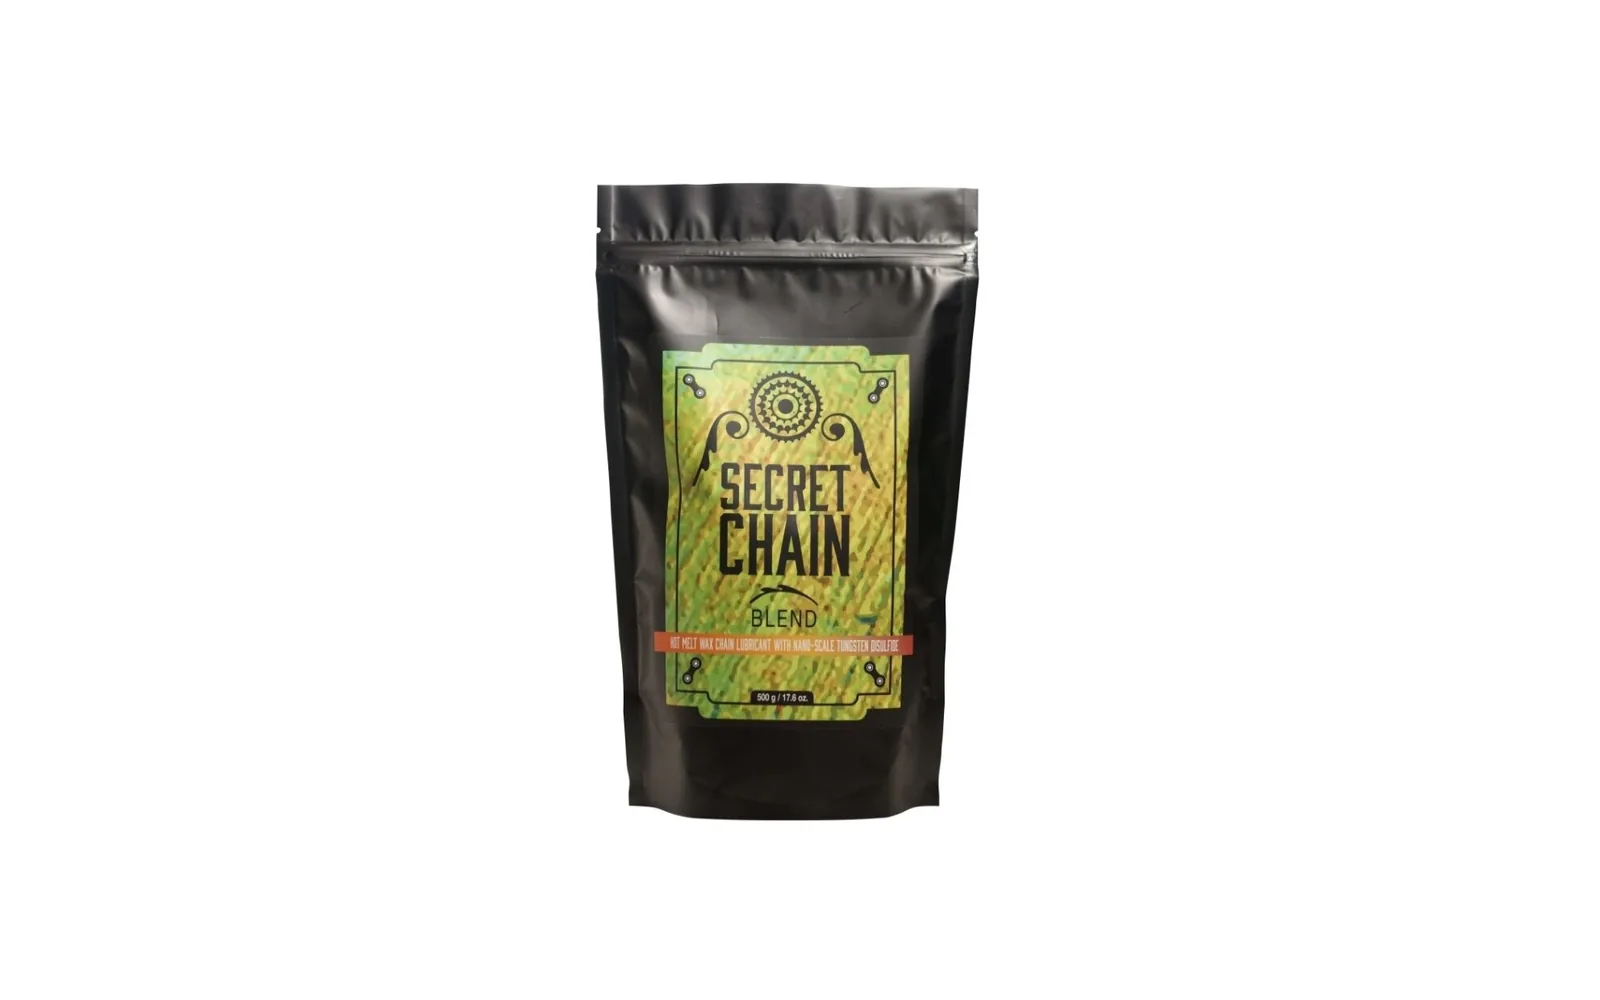
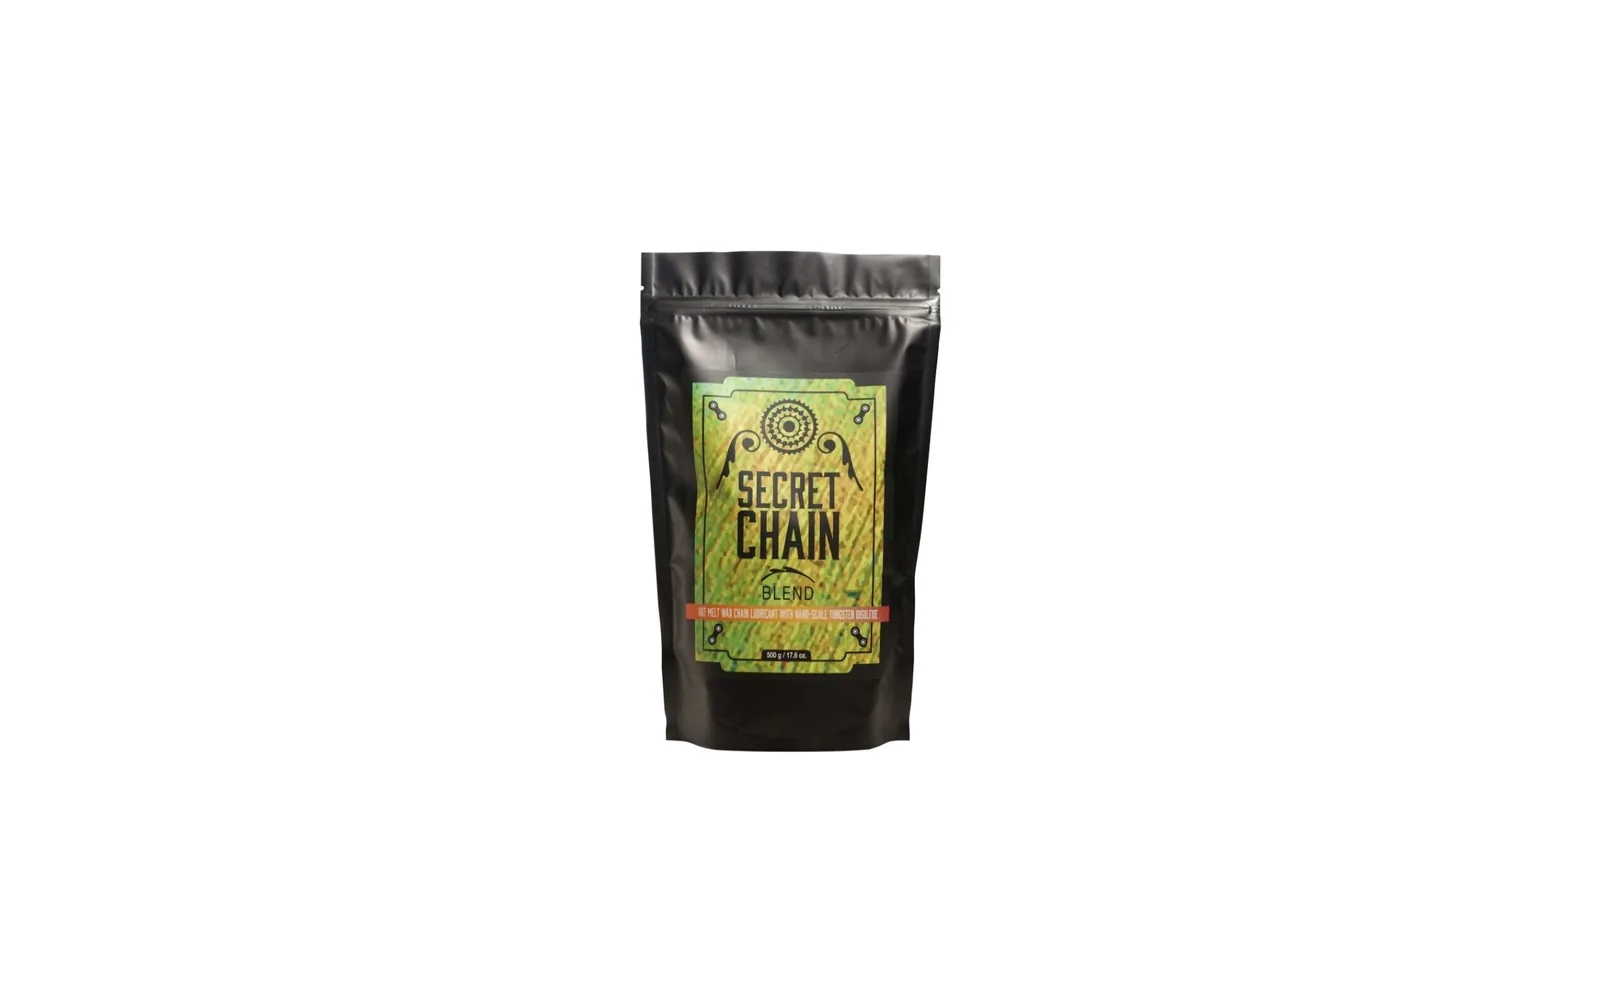
fix(images): bypass Vercel Image Optimization (HTTP 402 quota exceeded)
Production hit HTTP 402 Payment Required na /_next/image endpoint —
Vercel free plan transformation quota překročena. Manifestovalo se
broken thumbnails na magazín hubu (Scott Spark RC, Bikefit, ISAAC,
Voskování), na Lab cards a Pinarello Dogma photos.

Fix:
- next.config.ts: `images.unoptimized: true` — všechny <Image> komponenty
  renderují raw <img> bez Vercel transformations
- Source images už jsou pre-optimalizovány (Python PIL WebP 2400px
  ~50-500 kB), Vercel re-transformation neměla významný benefit
- clanky/page.tsx: magazín card přešel na native <img> + object-cover
  (jistota že prochází i kdyby unoptimized flag nepřevažovala)
- wax-hero.webp: ještě dál oddálený produkt (55 % výšky × 40 % šířky
  canvas) pro víc breathing roomu v Lab card

Až bude Vercel quota vyřešená (upgrade plan / next billing cycle),
vrátit `unoptimized: false`.

Changed region(s): [[0.375, 0.186, 0.625, 0.837]]

diff --git a/src/app/clanky/page.tsx b/src/app/clanky/page.tsx
@@ -1,6 +1,5 @@
 import type { Metadata } from "next";
 import Link from "next/link";
-import Image from "next/image";
 import Navbar from "@/components/Navbar";
 import Footer from "@/components/Footer";
 import JsonLd from "@/components/JsonLd";
@@ -8,7 +7,6 @@ import {
   ARTICLES,
   CATEGORY_LABEL,
   CATEGORY_COLOR,
-  type ArticleCategory,
 } from "@/data/articles";
 
 export const metadata: Metadata = {
@@ -100,13 +98,12 @@ function ArticleCard({ a }: { a: (typeof ARTICLES)[number] }) {
 
   const body = (
     <>
-      <div className="relative aspect-[16/10] bg-[#F0F2FA]">
-        <Image
+      <div className="relative aspect-[16/10] bg-[#F0F2FA] overflow-hidden">
+        {/* eslint-disable-next-line @next/next/no-img-element */}
+        <img
           src={a.image}
           alt={a.title}
-          fill
-          className={`object-cover ${isDraft ? "grayscale" : ""}`}
-          sizes="(max-width: 768px) 100vw, 33vw"
+          className={`absolute inset-0 w-full h-full object-cover ${isDraft ? "grayscale" : ""}`}
           loading="lazy"
         />
         {isDraft && (

diff --git a/next.config.ts b/next.config.ts
@@ -26,6 +26,12 @@ const securityHeaders = [
 
 const nextConfig: NextConfig = {
   images: {
+    // 2026-06-11: Vercel Image Optimization quota překročena (HTTP 402 z
+    // /_next/image endpoint). Source images už jsou WebP 2400px ~500 kB
+    // (Python PIL pipeline před uploadem), tedy Vercel transformations
+    // nepřinášejí významný benefit. Bypass na native <img> globálně.
+    // Až bude na Vercelu vyřešený quota plan, vrátit na false.
+    unoptimized: true,
     qualities: [70, 75, 85, 90],
     // AVIF + WebP — prohlížeč si vybere; AVIF je ~30-50% menší proti JPEG.
     formats: ["image/avif", "image/webp"],
